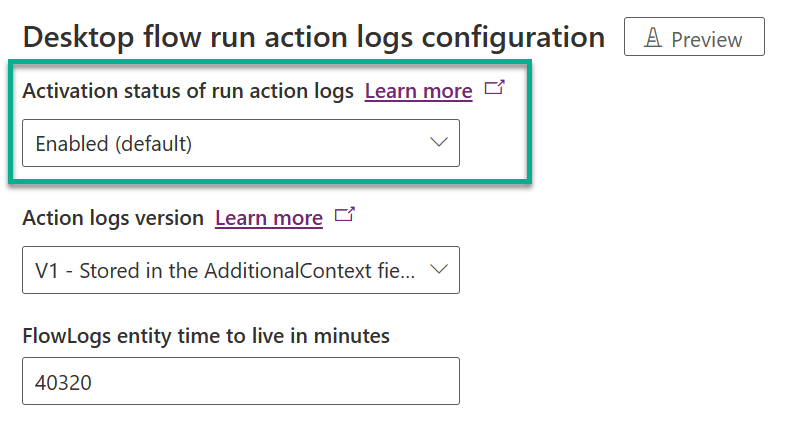
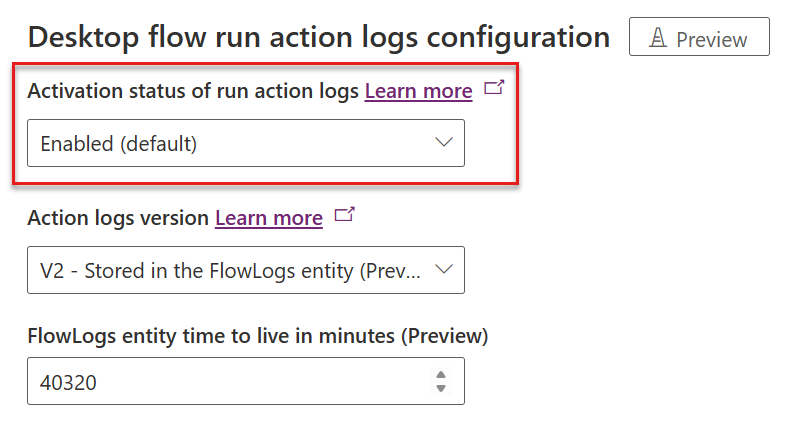
update screenshots and other small changes

diff --git a/articles/desktop-flows/configure-desktop-flow-logs.md b/articles/desktop-flows/configure-desktop-flow-logs.md
@@ -33,8 +33,8 @@ The **Activation status of run action logs** setting defines when desktop flow r
 
 | Activation status | Details |
 |---|---|
-| **Enabled (default)** | This is the default option for both existing and new environments where logs are captured as usual. |
-| **On run failure** | This option only captures desktop flow actions logs when there is a runtime error. This means that logs aren't available for every single run, but only when an error occurs. However, if an error does occur, all logs for that particular run are available, including both successful and failed actions. |
+| **Enabled (default)** | This option is the default for both existing and new environments where logs are captured as usual. |
+| **On run failure** | This option only captures desktop flow actions logs when there's a runtime error. This means that logs aren't available for every single run, but only when an error occurs. However, if an error does occur, all logs for that particular run are available, including both successful and failed actions. |
 | **Disabled** | This option effectively disables desktop flow run action logs completely. |
 
 > [!CAUTION]
@@ -48,17 +48,17 @@ The **Action logs version** allows you to choose V1, V2, or both.
 
 | Logs version | Explanation |  
 |---|---|  
-| **V1 - Stored in the AdditionalContext field of the FlowSession entity**| This is the default value, where logs are stored as before in the AdditionalContext field of the Flow Session entity, which is a file attribute and stored as a blob in Dataverse. Logs V1 consumes [Dataverse file capacity](/power-platform/admin/capacity-storage). |  
-| **V2 - Stored in the FlowLogs entity (Preview)** | This is a new option, allowing you to store logs in the 'FlowLogs' entity, which is stored in [Elastic Tables](/power-apps/maker/data-platform/create-edit-elastic-tables). Logs V2 consumes [Dataverse database capacity](/power-platform/admin/capacity-storage).  |  
-| **Both (Preview)** | This setting allows logs to be stored in both the traditional AdditionalContext field of the FlowSession entity and the FlowLogs entity. This feature is also in preview consumes both Dataverse file and database capacity. This is intended for debugging or testing purposes as it consumes both [Dataverse database and file capacity](/power-platform/admin/capacity-storage). |  
+| **V1 - Stored in the AdditionalContext field of the FlowSession entity**| This option is the default. Logs are stored in the `AdditionalContext` field of the `FlowSession` entity, which is a file attribute stored as a blob in Dataverse. Logs V1 consumes [Dataverse file capacity](/power-platform/admin/capacity-storage). |  
+| **V2 - Stored in the FlowLogs entity (Preview)** | This new option allows you to store logs in the `FlowLogs` entity, which is stored in [Elastic Tables](/power-apps/maker/data-platform/create-edit-elastic-tables). Logs V2 consumes [Dataverse database capacity](/power-platform/admin/capacity-storage).  |  
+| **Both (Preview)** | This setting allows logs to be stored in both the traditional AdditionalContext field of the `FlowSession` entity and the `FlowLogs` entity. This feature is also in preview consumes both Dataverse file and database capacity. This is intended for debugging or testing purposes as it consumes both [Dataverse database and file capacity](/power-platform/admin/capacity-storage). |  
 
-The **FlowLogs entity time to live in minutes (Preview)** value determines how long action logs should be retained in the FlowLogs elastic table. Dataverse automatically deletes Records that are older than the specified time-frame. Here are some example values for your convenience.
+The **FlowLogs entity time to live in minutes (Preview)** value determines how long action logs should be retained in the `FlowLogs` elastic table. Dataverse automatically deletes Records that are older than the specified time-frame. Here are some example values for your convenience.
 
 | Days   | Minutes     |
 |--------|-------------|
-| 1 day  | 1,440 minutes |
-| 3 days | 4,320 minutes |
-| 7 days | 10,080 minutes |
+| One day  | 1,440 minutes |
+| Three days | 4,320 minutes |
+| Seven days | 10,080 minutes |
 | 14 days | 20,160 minutes |
 | 28 days | 40,320 minutes |
 | 60 days | 86,400 minutes |
@@ -76,13 +76,13 @@ The following table describes the differences between desktop flow logs V1 and V
 
 | Feature | Logs V1 | Logs V2 | Details |  
 |---|---|---|---|  
-| Automatic Data Retention | Not Available | Available | V2 uses [Elastic Tables](/power-apps/maker/data-platform/create-edit-elastic-tables) which are powered by Azure Cosmos DB and comes with a built-in time-to-live feature for automatic data retention. |  
+| Automatic Data Retention | Not Available | Available | V2 uses [Elastic Tables](/power-apps/maker/data-platform/create-edit-elastic-tables), which are powered by Azure Cosmos DB and comes with a built-in time-to-live feature for automatic data retention. |  
 | Support for large log sizes | Roughly up to 50,000 to 80,000 action logs (maximum) | Roughly twice the number of V1 action logs (initially) | V2 could theoretically scale up to gigabytes worth of action logs per run in future, whereas V1 can only scale to the volume specified in this table. |
-| Support for advanced reporting and governance | Not Available | Available | In V1, the additionalcontext attribute is a file type, stored as a blob in Dataverse, making it challenging to parse for reporting and governance controls. Logs are much more accessible in V2. |
-| Support for Azure Synapse Link for Dataverse integration | Not Available | Planned | In V1, the additionalcontext attribute is a file type, stored as a blob in Dataverse, which isn't supported for synchronization to Azure Synapse. Logs V2 can be synced to Azure Synapse. |
-| Support for Dataverse auditing | Not Available | Planned | In V1, the additionalcontext attribute is a file type, stored as a blob in Dataverse, which isn't supported in Dataverse auditing. |
-| Support for Dataverse long-term retention | Not Available | Planned | In V1, the additionalcontext attribute is a file type, stored as a blob in Dataverse, which isn't supported in Dataverse auditing. |
-| Based on Dataverse Role-Based Access Control (RBAC) | Available | Available | Both versions use Dataverse RBAC, inheriting action log permissions from their parent flowsession record. |
+| Support for advanced reporting and governance | Not Available | Available | In V1, the `additionalcontext` attribute is a file type, stored as a blob in Dataverse, making it challenging to parse for reporting and governance controls. Logs are much more accessible in V2. |
+| Support for Azure Synapse Link for Dataverse integration | Not Available | Planned | In V1, the `additionalcontext` attribute is a file type, stored as a blob in Dataverse, which isn't supported for synchronization to Azure Synapse. Logs V2 can be synced to Azure Synapse. |
+| Support for Dataverse auditing | Not Available | Planned | In V1, the `additionalcontext` attribute is a file type, stored as a blob in Dataverse, which isn't supported in Dataverse auditing. |
+| Support for Dataverse long-term retention | Not Available | Planned | In V1, the `additionalcontext` attribute is a file type, stored as a blob in Dataverse, which isn't supported in Dataverse auditing. |
+| Based on Dataverse Role-Based Access Control (RBAC) | Available | Available | Both versions use Dataverse RBAC, inheriting action log permissions from their parent `flowsession` record. |
 
 Logs V2 offers significant enhancements over the previous version, V1. V2 uses the [elastic tables](/power-apps/maker/data-platform/create-edit-elastic-tables) feature, which is great for handling large data volumes, like action log scenarios, and has built-in data retention (TTL). Ideal for organizations needing to access significant amount of data for reporting, governance, and integration with automatic data retention control.
 
@@ -109,7 +109,7 @@ The following table shows sample Dataverse database storage consumption estimate
 
 Accessing desktop flow action logs data can be achieved by making an API call to Microsoft's Dataverse backend, either using the traditional API call syntax or using the new [ExecuteCosmosSqlQuery](/power-apps/developer/data-platform/webapi/reference/executecosmossqlquery) method. This method allows you to execute a SQL query against the Dataverse, enabling the retrieval, filtering, and manipulation of data.
 
-The data model of logs V2 is based on a parent-child relationship between the Flowsession and FlowLogs tables. Every record inherits permissions from its parent Flowsession record. In order to query action logs of a specific desktop flow run, you can use the following query syntax.
+The data model of logs V2 is based on a parent-child relationship between the `Flowsession` and `FlowLogs` tables. Every record inherits permissions from its parent `Flowsession` record. In order to query action logs of a specific desktop flow run, you can use the following query syntax.
 
 ### Traditional Dataverse API call syntax
 
@@ -134,18 +134,18 @@ Learn more about [querying JSON columns in elastic tables](/power-apps/developer
 
 ### Breaking down the call into individual pieces
 
-- The base URL (https://[my org].api.crm[my region].dynamics.com/api/data/v9.2/) is the endpoint for the Dataverse's Web API.
+- The base URL (https://[my org].api.crm[my region].dynamics.com/api/data/v9.2/) is the endpoint for the Dataverse Web API.
 - ExecuteCosmosSqlQuery is the method being called. This method allows the execution of a SQL query against Dataverse.
 - The parameters for the ExecuteCosmosSqlQuery method are provided in parentheses following the method name. These are:
-  - QueryText=@p1: The SQL query to be executed. In this case, the query is selecting various properties from a table where the *type* is 100000001 (desktop flow action log type) and ordering the results by the startTime property in descending order.
-  - EntityLogicalName=@p2: This is the logical name of the entity (flowlog) that stores the action logs.
-  - PartitionId=@p3: This parameter is used to identify the partition within Azure Cosmos DB where the query is to be executed. It's set to 'flowsession_[FlowSessionId]'.
-  - QueryParameters=@p4: This is a JSON object specifying parameters for the query. In the previous example, it's specifying a key-value pair where the key is '@referencingParentId' and the value is the flowsessionId (GUID).
+  - QueryText=@p1: The SQL query to be executed. In this case, the query selects various properties from a table where the *type* is 100000001 (desktop flow action log type) and orders the results by the startTime property in descending order.
+  - EntityLogicalName=@p2: This is the logical name of the entity (`flowlog`) that stores the action logs.
+  - PartitionId=@p3: This parameter is used to identify the partition within Azure Cosmos DB where the query is to be executed. It's set to `flowsession_[FlowSessionId]`.
+  - QueryParameters=@p4: This is a JSON object specifying parameters for the query. In the previous example, it's specifying a key-value pair where the key is '@referencingParentId' and the value is the `flowsessionId` (GUID).
 
 ## Known limitations  
   
 - Logs V2 are only available for desktop flow runs that are launched from a cloud flow through the desktop flow connector action.
 - Changing action log version doesn't migrate previous desktop flow action logs to the new log storage type.
-- Cascade delete isn't currently supported. When you delete a flowsession record, the underlying logs aren't automatically deleted.
+- Cascade delete isn't currently supported. When you delete a `flowsession` record, the underlying logs aren't automatically deleted.
 
 [!INCLUDE[footer-include](../includes/footer-banner.md)]
